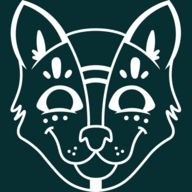
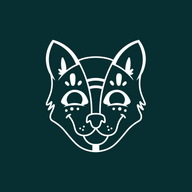
Foto del stand, íconos de app corregidos y fix de navbar en PWA
- Agrega la foto real del stand de expo entre Misión/Visión y los
  valores, enmarcada con el patrón de picos arriba y abajo.
- Quita el ícono del perro sobre "La historia de Totopo".
- Regenera los íconos de instalación con márgen de seguridad -- antes
  el logo llegaba al borde y se veía cortado/gigante en el ícono real.
- Nombre de la app instalada pasa a "Totopo Mezcal".
- Fix: en modo standalone (instalada), el navbar quedaba tapado por la
  barra de estado del sistema (status-bar-style black-translucent).
  Se agrega padding con env(safe-area-inset-top) al navbar y al hero.

Claude-Session: https://claude.ai/code/session_01M3oGWnjVYPdSfbLLpynkgo

Changed region(s): [[0.0312, 0.0, 0.9688, 1.0], [0.6562, 0.6562, 0.6875, 0.6875], [0.3125, 0.6562, 0.3438, 0.6875]]

diff --git a/src/components/StorySection.tsx b/src/components/StorySection.tsx
@@ -1,8 +1,9 @@
 import { motion } from 'framer-motion'
 import { ShieldCheck, Leaf, Gem, HeartHandshake } from 'lucide-react'
-import perro from '../assets/brand/perro.png'
 import xoloPhoto from '../assets/photos/story-xolo.jpg'
+import standPhoto from '../assets/photos/stand-expo.jpg'
 import patternMitla from '../assets/brand/pattern-mitla.png'
+import patternPicos from '../assets/brand/pattern-picos.png'
 import PatternDivider from './PatternDivider'
 import { story, xolo, mission, vision, values } from '../data/content'
 
@@ -43,24 +44,12 @@ export default function StorySection() {
           {story.eyebrow}
         </motion.p>
 
-        <div className="mt-6 grid items-center gap-10 sm:grid-cols-[220px_1fr] sm:gap-14">
-          <motion.img
-            src={perro}
-            alt="Totopo, el perro que inspira la marca"
-            initial={{ opacity: 0, scale: 0.9 }}
-            whileInView={{ opacity: 1, scale: 1 }}
-            viewport={{ once: true }}
-            transition={{ duration: 0.6 }}
-            className="mx-auto w-40 rounded-full bg-obsidian-950 p-6 sm:w-full"
-          />
-
-          <div>
-            <h2 className="text-3xl text-cream-50 light:text-teal-950 sm:text-4xl">{story.title}</h2>
-            <div className="mt-5 space-y-4 font-body text-base leading-relaxed text-cream-200 light:text-teal-900/75">
-              {story.paragraphs.map((p) => (
-                <p key={p}>{p}</p>
-              ))}
-            </div>
+        <div className="mt-6 max-w-2xl">
+          <h2 className="text-3xl text-cream-50 light:text-teal-950 sm:text-4xl">{story.title}</h2>
+          <div className="mt-5 space-y-4 font-body text-base leading-relaxed text-cream-200 light:text-teal-900/75">
+            {story.paragraphs.map((p) => (
+              <p key={p}>{p}</p>
+            ))}
           </div>
         </div>
       </div>
@@ -115,8 +104,32 @@ export default function StorySection() {
             <p className="mt-2 font-body text-sm text-cream-200 light:text-teal-900/75">{vision.body}</p>
           </motion.div>
         </div>
+      </div>
 
-        <div className="mt-6 grid gap-4 sm:grid-cols-4">
+      <div className="mt-12">
+        <PatternDivider src={patternPicos} height={16} className="opacity-80 light:invert light:opacity-50" />
+        <motion.div
+          initial={{ opacity: 0 }}
+          whileInView={{ opacity: 1 }}
+          viewport={{ once: true }}
+          transition={{ duration: 0.6 }}
+          className="relative h-72 w-full overflow-hidden sm:h-96"
+        >
+          <img
+            src={standPhoto}
+            alt="Stand de Totopo Mezcal en una expo, con la manada Totopo"
+            className="absolute inset-0 h-full w-full object-cover"
+          />
+        </motion.div>
+        <PatternDivider
+          src={patternPicos}
+          height={16}
+          className="rotate-180 opacity-80 light:invert light:opacity-50"
+        />
+      </div>
+
+      <div className="mx-auto max-w-5xl px-6">
+        <div className="mt-12 grid gap-4 sm:grid-cols-4">
           {values.map((v, i) => {
             const Icon = valueIcons[i]
             return (

diff --git a/vite.config.ts b/vite.config.ts
@@ -12,8 +12,8 @@ export default defineConfig({
       registerType: 'autoUpdate',
       includeAssets: ['favicon.png', 'apple-touch-icon.png'],
       manifest: {
-        name: 'Totopo Mezcal Artesanal',
-        short_name: 'Totopo',
+        name: 'Totopo Mezcal',
+        short_name: 'Totopo Mezcal',
         description:
           'Mezcal artesanal de Santiago Matatlán, Oaxaca. Un brindis con propósito — pedí directo por WhatsApp.',
         theme_color: '#FBF3E4',

diff --git a/src/components/Hero.tsx b/src/components/Hero.tsx
@@ -10,7 +10,8 @@ export default function Hero() {
   return (
     <section
       id="inicio"
-      className="relative flex min-h-[100svh] flex-col justify-between overflow-hidden bg-obsidian-950 pt-24 text-cream-50"
+      style={{ paddingTop: 'calc(6rem + env(safe-area-inset-top))' }}
+      className="relative flex min-h-[100svh] flex-col justify-between overflow-hidden bg-obsidian-950 text-cream-50"
     >
       <img
         src={heroPhoto}

diff --git a/src/components/Navbar.tsx b/src/components/Navbar.tsx
@@ -49,6 +49,7 @@ export default function Navbar({ onCartClick }: { onCartClick: () => void }) {
 
   return (
     <header
+      style={{ paddingTop: 'env(safe-area-inset-top)' }}
       className={`fixed inset-x-0 top-0 z-50 transition-colors duration-300 ${
         scrolled
           ? 'bg-teal-950/95 shadow-lg backdrop-blur light:bg-cream-50/95'
